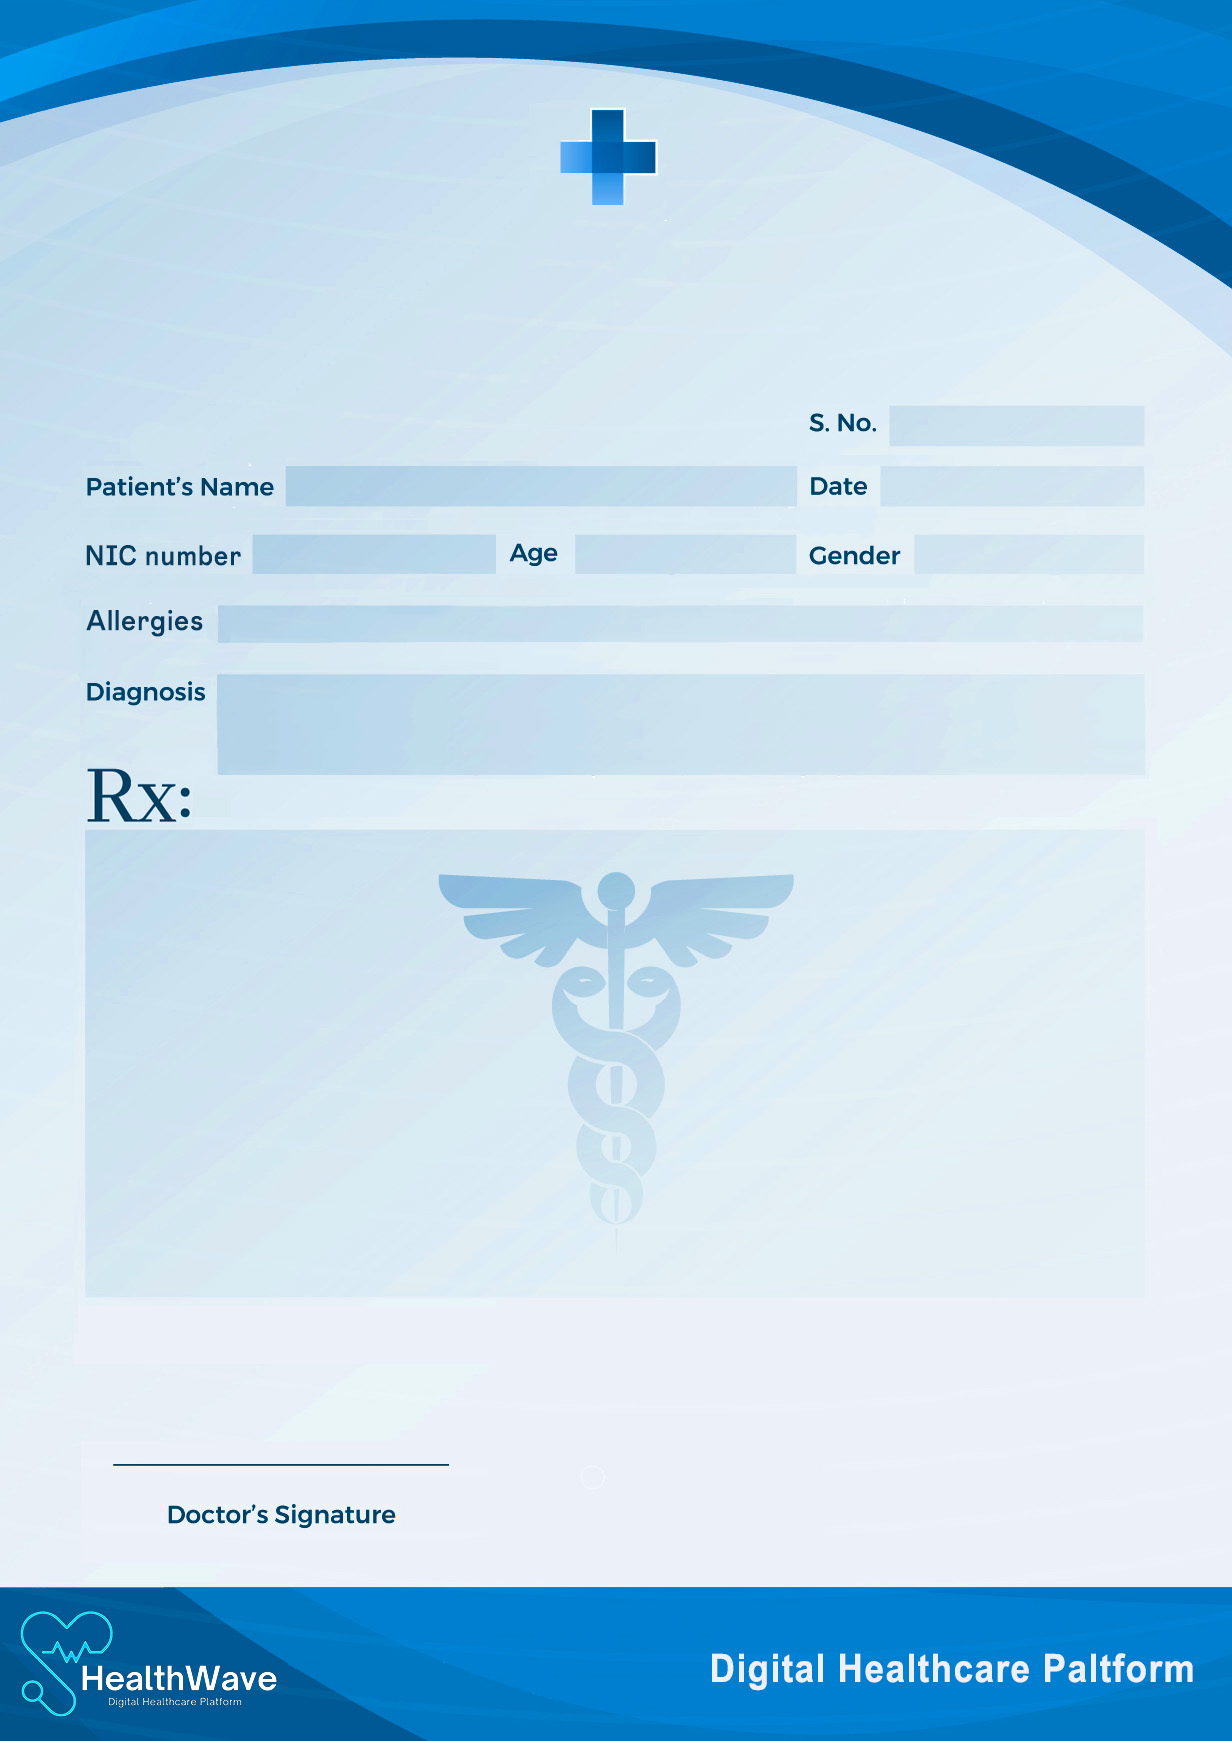
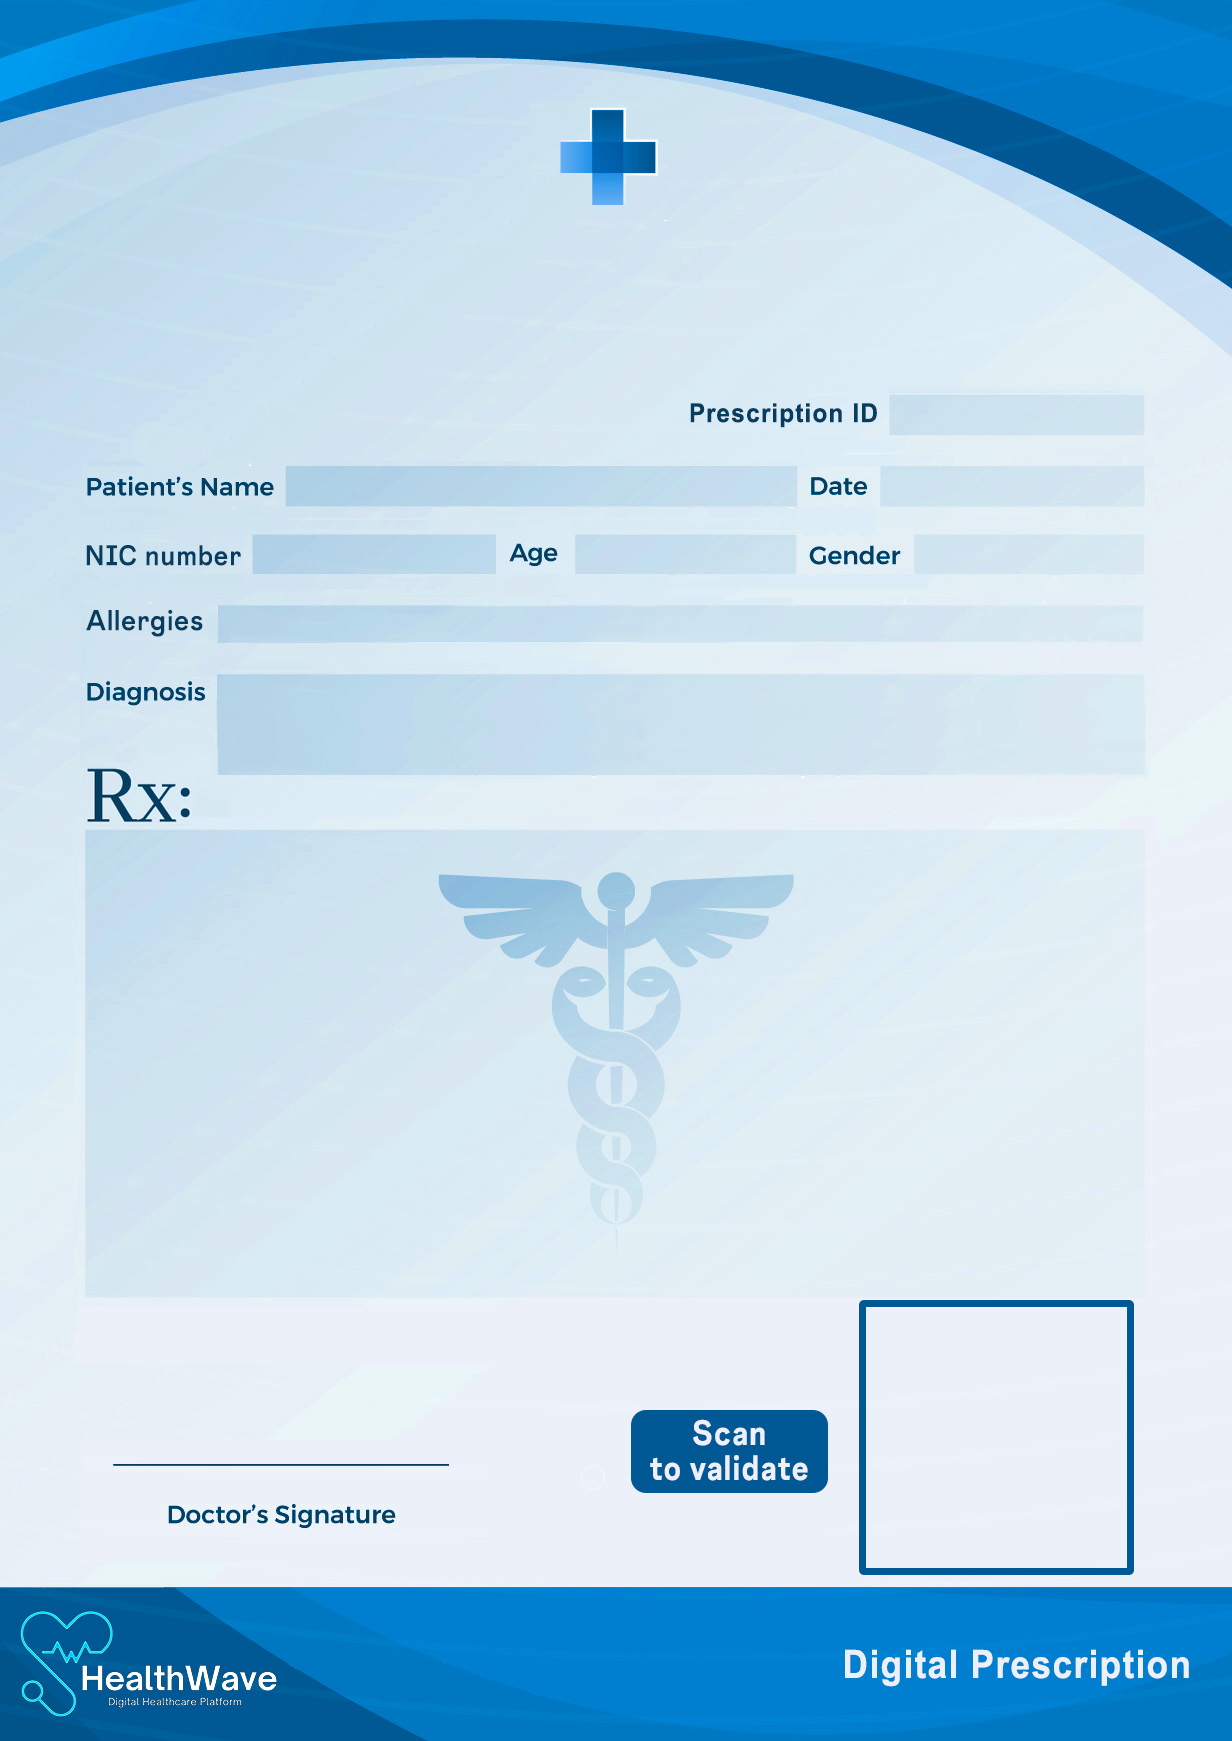
Prescription done

Changed region(s): [[0.4935, 0.7444, 0.9562, 0.9925], [0.5552, 0.2171, 0.7094, 0.2481]]

diff --git a/app/helpers/generate_prescription.php b/app/helpers/generate_prescription.php
@@ -2,10 +2,17 @@
 
 // Include the main TCPDF library (search for installation path).
 require_once(APPROOT.'/TCPDF/tcpdf.php');
-// if(!defined('base_app')) define('base_app', str_replace('\\','/',__DIR__).'/' );
 class MYPDF extends TCPDF {
+
+    public $docName;
+    public $hospitalName;
+    public $spec;
+    public $slmc;
+
     //Page header
     public function Header() {
+
+
         // Background
         $background = APPROOT.'/helpers/prescription_background.jpg';
         $this->Image($background, 0, 0, 210, 297, '', '', '', false, 300, '', false, false, 0);
@@ -17,39 +24,42 @@ class MYPDF extends TCPDF {
         $this->SetFont('helvetica', 'B', 20);
         $this->SetTextColor(14, 14, 83);
         $this->Ln(40);
-        $this->Cell(0, 19, 'Dr. Tony Stark', 0, false, 'C', 0, '', 0, false, 'M', 'M');
+        $this->Cell(0, 19, $this->docName , 0, false, 'C', 0, '', 0, false, 'M', 'M');
 
         $this->SetFont('helvetica', '', 12);
         $this->SetTextColor(14, 14, 83);
         $this->Ln(7); // Move down a bit
-        $this->Cell(0, 10, 'Cardiologist', 0, false, 'C', 0, '', 0, false, 'M', 'M');
+        $this->Cell(0, 10, $this->spec , 0, false, 'C', 0, '', 0, false, 'M', 'M');
 
         $this->SetFont('helvetica', '', 11);
         $this->SetTextColor(14, 14, 83);
-        $this->Ln(7); // Move down a bit
-        $this->Cell(0, 10, 'SLMC No: 123456', 0, false, 'C', 0, '', 0, false, 'M', 'M');
+        $this->Ln(6); // Move down a bit
+        $this->Cell(0, 10, $this->slmc , 0, false, 'C', 0, '', 0, false, 'M', 'M');
+
+        $this->SetFont('helvetica', '', 11);
+        $this->SetTextColor(14, 14, 83);
+        $this->Ln(6); // Move down a bit
+        $this->Cell(0, 10, $this->hospitalName , 0, false, 'C', 0, '', 0, false, 'M', 'M');
+        
 
         $this->SetAlpha(.1);
 
         
-        // $this->Image($image_file, 60, 100, 100, 100, "watermark", '', 'T', false, 300, '', false, false, 0, false, false, false);
     }
 }
 // create new PDF document
 $pdf = new MYPDF(PDF_PAGE_ORIENTATION, PDF_UNIT, 'A4', true, 'UTF-8', false);
-// if($is_encrypted == 1)
-// $pdf->SetProtection(array('print', 'copy', 'read'), $password, null, 0, null);
-// set document information
+$pdf->docName = 'Dr. '.$data['Doc_Name'];
+$pdf->hospitalName = $data['Hospital_Name']. ", " . $data['Contact_No'];
+$pdf->spec = $data['Specialization'];
+$pdf->slmc = 'SLMC No: '.$data['SLMC_Reg_No'];
+
+
 $pdf->SetCreator(PDF_CREATOR);
 $pdf->SetAuthor('HealthWave');
 $pdf->SetTitle((isset($fullname) ? $fullname : "").'- Digital Prescription');
 $pdf->SetSubject('Generated Digital Prescription');
 
-// set default header data
-// $pdf->SetHeaderData(PDF_HEADER_LOGO, 50, '', '');
-
-// set header and footer fonts
-// $pdf->setHeaderFont(Array(PDF_FONT_NAME_MAIN, '', PDF_FONT_SIZE_MAIN));
 $pdf->setFooterFont(Array(PDF_FONT_NAME_DATA, '', PDF_FONT_SIZE_DATA));
 
 // set default monospaced font
@@ -77,31 +87,25 @@ $pdf->SetFont('dejavusans', '', 13);
 // add a page
 $pdf->AddPage();
 
-$style = array(
-    'vpadding' => 'auto',
-    'hpadding' => 'auto',
-    'fgcolor' => array(0,0,0),
-    'bgcolor' => false, //array(255,255,255)
-    'module_width' => 1, // width of a single module in points
-    'module_height' => 1 // height of a single module in points
-);
 
-
-$pdf->write2DBarcode('www.tcpdf.org', 'QRCODE,L', 150, 220, 50, 50, $style, 'N');
-
-// writeHTML($html, $ln=true, $fill=false, $reseth=false, $cell=false, $align='')
-// writeHTMLCell($w, $h, $x, $y, $html='', $border=0, $ln=0, $fill=0, $reseth=true, $align='', $autopadding=true)
 
 // create some HTML content
 ob_start();
 ?>
-<br>
-<br><br><br><br><br><br><br><br><br><br><br><br>
+<br><br>
+<br><br><br><br><br><br><br><br><br><br>
 
 <div>
     <table>
+
+        <tr>
+            <td width="25%"><span> </span></td>
+            <td width="35%"><span></span></td>
+            <td width="20%"><span> </span></td>
+            <td width="20%"><span style="border:1px"><?= $data['Prescription_ID']?></span></td>
+        </tr><br>
         
-        <tr >
+        <tr>
             <td width="25%"><span> </span></td>
             <td width="35%"><span><?= $data['Name']?></span></td>
             <td width="15%"><span> </span></td>
@@ -114,9 +118,9 @@ ob_start();
             <td colspan="3"><span style="border:1px"></span></td>
         </tr>
         <tr>
-            <td width="22%"><span> </span></td>
+            <td width="22%"><span></span></td>
             <td width="28%"><span style="border:1px"><?= $data['NIC']?></span></td>
-            <td width="23%"><span>&nbsp;&nbsp;&nbsp;&nbsp;23 </span></td>
+            <td width="23%"><span>&nbsp;&nbsp;&nbsp;&nbsp;&nbsp;23 </span></td>
             <td width="27%"><span style="border:1px">&nbsp;&nbsp;&nbsp;&nbsp;&nbsp;&nbsp;&nbsp;&nbsp;&nbsp;&nbsp;<?= $data['Gender']?></span></td>
         </tr>
     </table>
@@ -127,56 +131,11 @@ ob_start();
             <td width="75%"><span style="border:1px"> <?= !empty($data['Allergies']) ? $data['Allergies'] : " None " ?></span></td>
         </tr>
         <tr>
-            <td width="19%"><span></span></td>
-            <td width="75%"><span style="border:1px"><br><?= $data['Diagnosis']?></span></td>
+            <td width="18%"><span></span></td>
+            <td width="72%"><span style="border:1px"><br>&nbsp;<?= $data['Diagnosis']?></span></td>
         </tr>
     </table>
-    <br>
-    <br>
-    <br>
-    <table cellpadding="2">
-        <tr>
-            <td width="100%"><span></span></td>
-        </tr>
-        <tr>
-            <td colspan="3"><span style="border:1px"></span></td>
-        </tr>
-    </table>
-    
-    <br>
-    <hr>
-    <br>
-    <table cellpadding="2">
-        <tr>
-            <td width="100%"><span></span></td>
-        </tr>
-        <tr>
-            
-            <td colspan="3">&nbsp;&nbsp;&nbsp;&nbsp;&nbsp;&nbsp;&nbsp; I the undersigned, Doctor of Medicine</td>
-        </tr>
-    </table>
-    
-    <br>
-    <br>
-    <br>
-    <br>
-    <br>
-    <br>
-    <br>
-    <br>
-    <br>
-    <br>
-    <br>
-    <br>
-    <br>
-    <br>
-    <table cellpadding="2">
-        <tr>
-            <td>&nbsp;&nbsp;&nbsp;&nbsp;&nbsp;&nbsp;&nbsp;&nbsp;&nbsp;&nbsp;&nbsp;&nbsp;&nbsp;&nbsp;&nbsp;&nbsp;Dr. <?= $data['Doc_Name']?></td>
-        </tr>
-
-    </table>    
-
+    <br><br><br><br>
 </div>
 <table width="100%" style="table-collapse:collapse" cellspacing="0" cellpadding="1">
 
@@ -186,10 +145,117 @@ ob_start();
 
 
 $html = ob_get_clean();
-// $html = file_get_contents('./contents/sample_101.html');
 
 // output the HTML content
+// $pdf->writeHTML($html, true, false, true, false, '');
+
+// Decode drug details JSON string
+$drugDetails = $data['Drugs'];
+$testDetails = $data['Tests'];
+if (!empty($testDetails)) {
+    // Begin drug details table HTML
+    $drugTableHtml = '<div style="display: flex; justify-content: center;">';
+    $drugTableHtml .= '&nbsp;&nbsp;&nbsp;&nbsp;&nbsp;&nbsp;&nbsp;&nbsp;&nbsp;&nbsp;&nbsp;&nbsp;&nbsp;&nbsp;<table cellpadding="5" cellspacing="0" border="1" style="width: 90%;  margin: auto; text-align: center;">';
+    $drugTableHtml .= '<tr><th><b>Drug Name</b></th><th><b>Amount</b></th><th><b>Amount Unit</b></th><th><b>Frequency</b></th><th><b>Duration</b></th></tr>';
+
+    // Populate drug details table rows
+    foreach ($drugDetails as $detail) {
+        $drugTableHtml .= '<tr>';
+        $drugTableHtml .= '<td>' . $detail['drug_name'] . '</td>';
+        $drugTableHtml .= '<td>' . $detail['amount'] . '</td>';
+        $drugTableHtml .= '<td>' . $detail['amount_unit'] . '</td>';
+        $drugTableHtml .= '<td>' . $detail['frequency'] . '</td>';
+        $drugTableHtml .= '<td>' . $detail['duration'] . '</td>';
+        $drugTableHtml .= '</tr>';
+    }
+
+    // End drug details table HTML
+    $drugTableHtml .= '</table>';
+    $drugTableHtml .= '</div>';
+
+    // Append drug details table HTML to the existing HTML content
+    $html .= $drugTableHtml;
+}
+
+if (!empty($testDetails)) {
+    // Begin test details table HTML
+    // $testNamesHtml = ''; // Add some spacing
+    // $testNamesHtml .= '<div style="display: flex; justify-content: center;">'; // Center the div
+    $testNamesHtml = '<p>&nbsp;&nbsp;&nbsp;&nbsp;&nbsp;&nbsp;&nbsp;&nbsp;&nbsp;&nbsp;&nbsp;&nbsp;&nbsp;&nbsp;Recommended Tests: '; // Paragraph to contain the test names
+
+    // Iterate through the test names array and concatenate them with commas
+    $testCount = count($testDetails);
+    foreach ($testDetails as $index => $testName) {
+        $testNamesHtml .= $testName;
+        if ($index < $testCount - 1) {
+            // Add a comma after each test name except the last one
+            $testNamesHtml .= ', ';
+        }
+    }
+
+    $testNamesHtml .= '</p>'; // End of paragraph
+    $testNamesHtml .= '<p>';
+    $testNamesHtml .= '&nbsp;&nbsp;&nbsp;&nbsp;&nbsp;&nbsp;&nbsp;&nbsp;&nbsp;&nbsp;&nbsp;&nbsp;&nbsp;&nbsp;Refarrals: ' . $data['Referral'];   
+    $testNamesHtml .= '</p>'; // End of paragraph
+    // $testNamesHtml .= '</div>'; // End of centered div
+
+    // Append the test names HTML to the existing HTML content
+    $html .= $testNamesHtml;
+}
+
+$signatureHtml = ''
+    . '<br><br><br><br><br><br><br><br><br><br><br><br>'
+    . '<table>'
+    . '<tr>'
+    . '<td><span> </span></td>'
+    . '<td><span style="border:1px"></span></td>'
+    . '</tr>'
+    . '<tr>'
+    . '<td><span> </span></td>'
+    . '<td><span style="border:1px"></span></td>'
+    . '</tr>'
+    . '<tr>'
+    . '<td><span> </span></td>'
+    . '<td><span style="border:1px"></span></td>'
+    . '</tr>'
+    . '<tr>'
+    . '<td><span> </span></td>'
+    . '<td><span style="border:1px"></span></td>'
+    . '</tr>'
+    . '<tr>'
+    . '<td><span> </span></td>'
+    . '<td><span style="border:1px"></span></td>'
+    . '</tr>'
+    . '<tr>'
+    . '<td><span> </span></td>'
+    . '<td><span style="border:1px"></span></td>'
+    . '</tr>'
+    . '<tr>'
+    . '<td width="13%"><span></span></td>'
+    . '<td width="28%"><span style="border:1px">Dr. ' . $data['Doc_Name'] . '</span></td>'
+    . '</tr>'
+    . '</table>';
+
+$html .= $signatureHtml;
+
+// Begin test details table HTML
+
+
+// Output the HTML content with drug details table to the PDF
 $pdf->writeHTML($html, true, false, true, false, '');
+
+
+$style = array(
+    'vpadding' => 'auto',
+    'hpadding' => 'auto',
+    'fgcolor' => array(0,0,0),
+    'bgcolor' => false, 
+    'module_width' => 1, 
+    'module_height' => 1 
+);
+
+$validation_url = "http://localhost/healthwave/prescription/validate?id=".$data['Prescription_ID'];
+$pdf->write2DBarcode($validation_url, 'QRCODE,L', 145, 220, 50, 50, $style, 'N');
 
 
 // - - - - - - - - - - - - - - - - - - - - - - - - - - - - -
@@ -200,7 +266,6 @@ $pdf->lastPage();
 // ---------------------------------------------------------
 
 //Close and output PDF document
-// $pdf->Output(base_app.$pfname, 'F');
 $pdf->Output('Prescription.pdf', 'I');
 unset($pdf);
 

diff --git a/app/models/doctors.php b/app/models/doctors.php
@@ -318,10 +318,11 @@ class Doctors{
     }
 
     public function get_prescription_data($id){
-        $this->db->query('SELECT prescription.*, patient.First_Name, patient.Last_Name, patient.Gender, patient.DOB, patient.Allergies, patient.NIC, doctor_reservation.Date, doctor_consultation.Comments, doctor.First_Name as Doc_First_Name, doctor.Last_Name as Doc_Last_Name, doctor.SLMC_Reg_No, doctor.Specialization FROM prescription 
+        $this->db->query('SELECT prescription.*, patient.First_Name, patient.Last_Name, patient.Gender, patient.DOB, patient.Allergies, patient.NIC, doctor_reservation.Date, doctor_consultation.Comments, doctor.First_Name as Doc_First_Name, doctor.Last_Name as Doc_Last_Name, doctor.SLMC_Reg_No, doctor.Specialization, hospital.Hospital_Name, hospital.Contact_No FROM prescription 
         INNER JOIN doctor_consultation ON prescription.Doc_Consult_ID = doctor_consultation.Doc_Consult_ID
         INNER JOIN doctor_reservation ON doctor_consultation.Doc_Res_ID = doctor_reservation.Doc_Res_ID
         INNER JOIN schedule ON doctor_reservation.Schedule_ID = schedule.Schedule_ID
+        INNER JOIN hospital ON schedule.Hospital_ID = hospital.Hospital_ID
         INNER JOIN doctor ON schedule.Doctor_ID = doctor.Doctor_ID
         INNER JOIN patient ON doctor_reservation.Patient_ID = patient.Patient_ID
         WHERE prescription.Prescription_ID = :id');

diff --git a/app/controllers/Doctor.php b/app/controllers/Doctor.php
@@ -121,6 +121,7 @@
                 $Doc_Name = $prescription->Doc_First_Name . ' ' . $prescription->Doc_Last_Name;
 
                 $data = [
+                    'Prescription_ID' => $prescription_id,
                     'Name' => $Name,
                     'Age' => $Age,
                     'Gender' => $prescription->Gender,
@@ -132,8 +133,13 @@
                     'Remarks' => $prescription->Comments,
                     'Referral' => $prescription->Referrals,
                     'Drugs' => $prescription->Drug_Details,
-                    'Tests' => $prescription->Test_Details
+                    'Tests' => $prescription->Test_Details,
+                    'Hospital_Name' => $prescription->Hospital_Name,
+                    'Contact_No' => $prescription->Contact_No,
+                    'Specialization' => $prescription->Specialization,
+                    'SLMC_Reg_No' => $prescription->SLMC_Reg_No,
                 ];
+
 
                 try{
                     include_once APPROOT.'/helpers/generate_prescription.php';
